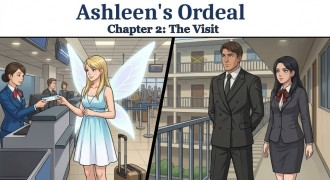
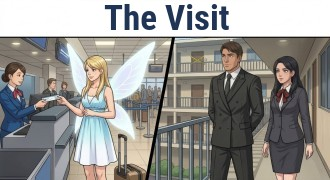
Added Chapter 5: Fast-Paced Examination

Changed region(s): [[0.2121, 0.0, 0.7576, 0.1944]]

diff --git a/index.html b/index.html
@@ -35,6 +35,10 @@
         <img src="thumbnails/aoc04.jpg" alt="Chapter 4" class="chapter-thumb">
         <h4>Chapter 4</h4>
       </a>
+      <a href="chapter.html?ch=5" class="chapter-card">
+        <img src="thumbnails/aoc05.jpg" alt="Chapter 5" class="chapter-thumb">
+        <h4>Chapter 5</h4>
+      </a>
     </div>
   </section>
 </body>
